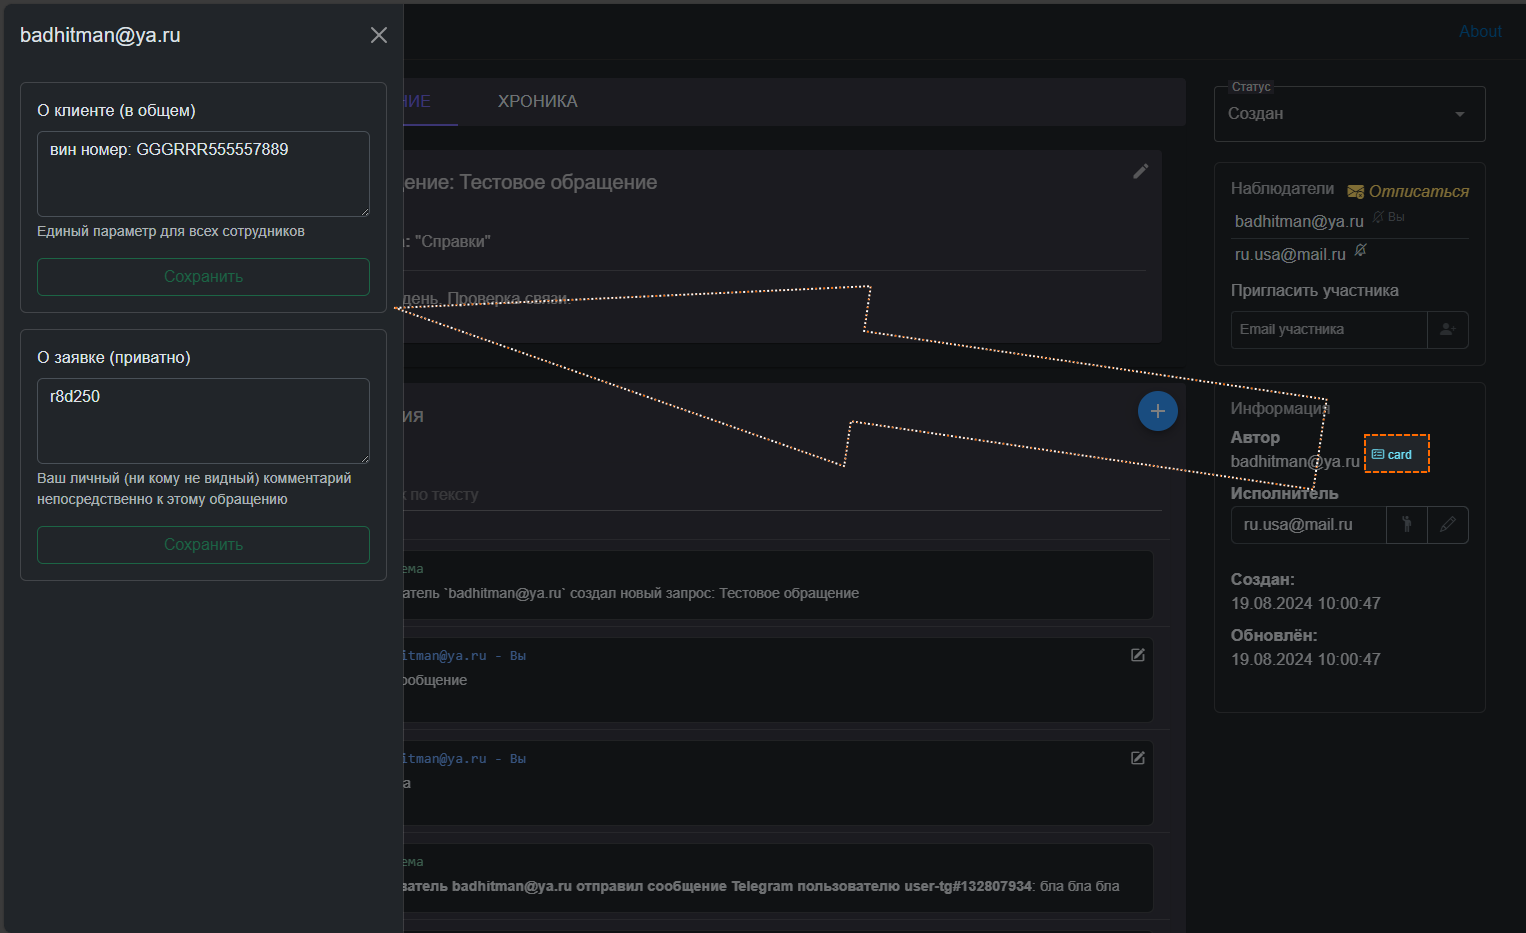
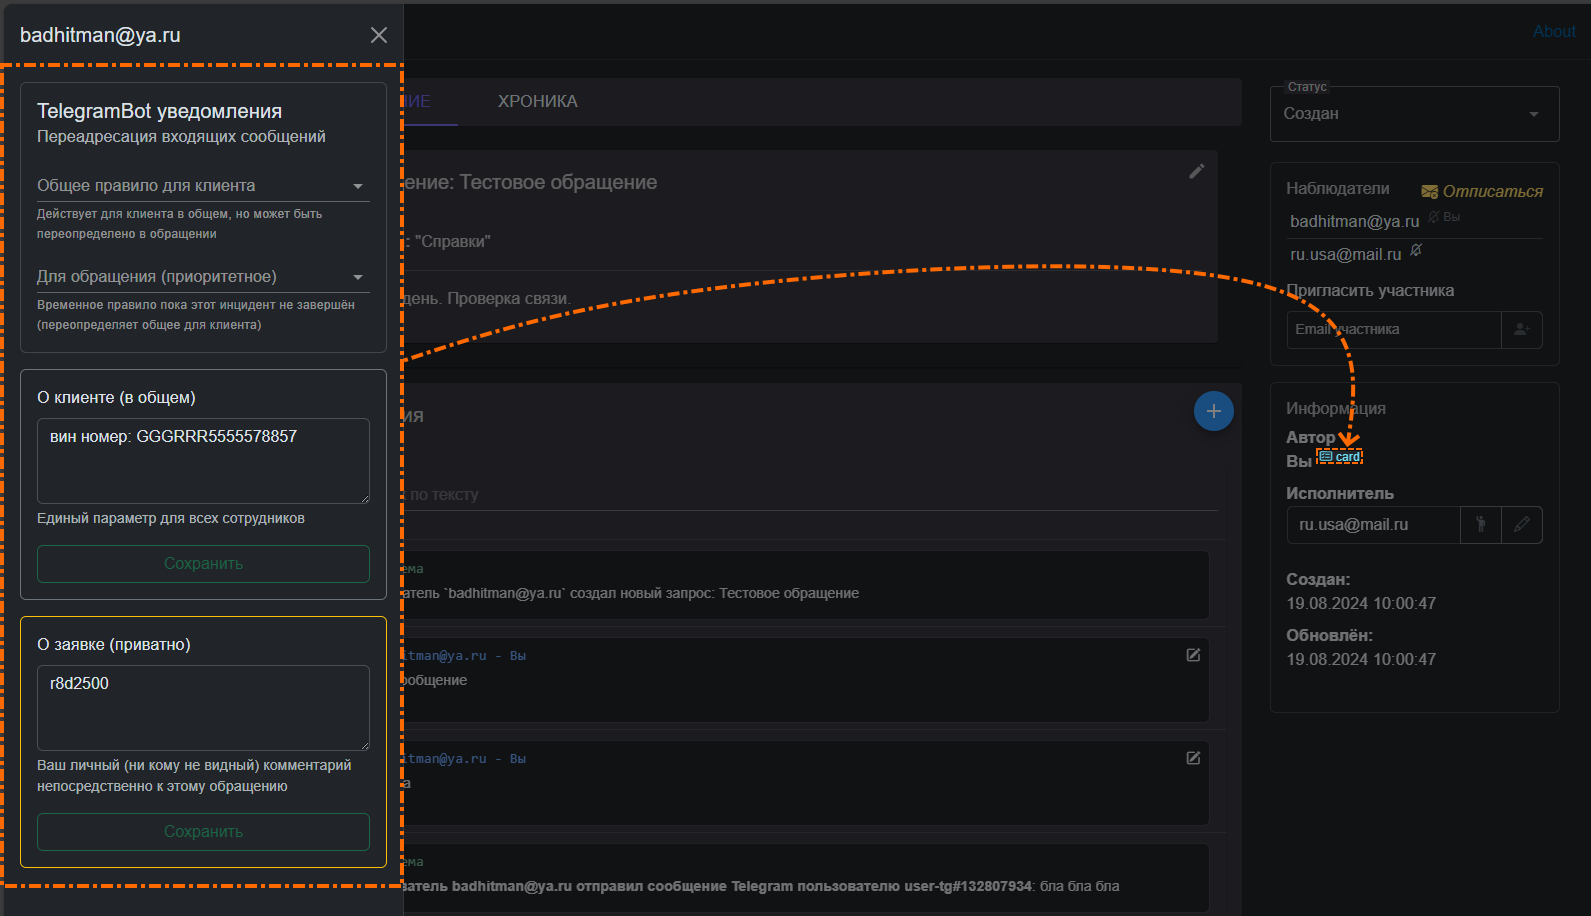
~

diff --git a/RemoteCallLib/SerializeStorage/SerializeStorageService.cs b/RemoteCallLib/SerializeStorage/SerializeStorageService.cs
@@ -84,7 +84,7 @@ public class SerializeStorageService(IDbContextFactory<CloudParametersContext> c
             {
                 await context.SaveChangesAsync();
                 success = true;
-                res.AddSuccess($"Данные успешно сохранены{(i > 0 ? $" (на попытке [{i}])" : "")}: {_set.Name}");
+                res.AddSuccess($"Данные успешно сохранены{(i > 0 ? $" (на попытке [{i}])" : "")}: {_set.Name} > {_set.PrefixPropertyName}");
                 res.Response = _set.Id;
             }
             catch (Exception ex)

diff --git a/BlazorServerLib/Components/Telegram/MessagesTelegramComponent.razor.cs b/BlazorServerLib/Components/Telegram/MessagesTelegramComponent.razor.cs
@@ -39,7 +39,6 @@ public partial class MessagesTelegramComponent : BlazorBusyComponentBaseModel
         }
     }
 
-
     /// <summary>
     /// Table
     /// </summary>

diff --git a/HelpdeskService/README.md b/HelpdeskService/README.md
@@ -14,14 +14,19 @@
 ## Диалог внутри обращения
 ![issue card body edit](img/issue-card-edit-body.png)
 
-В любом обращении вам доступна карточка клиента текущего автора обращения:
+В любом обращении сотрудникам доступна карточка клиента текущего автора обращения:
 ![issues notes](img/issues-notes.png)
+В карточке клиента доступны настройки пересылки ботом входящие сообщения от клиента и записки.
 
+#### TelegramBot уведомления (пересылка сообщений клиентов)
+Можно установить параметр для пользователя в общем, а можно его определить/переопределить "для обращения". Второй параметр (для обращения) переопределяет значение клиента. Другими словами: при входящем сообщении от клиента сначала система проверит наличие открытых обращений и наличия в них установок персональной переадресации. Если такие будут обнаружены, то уведомления пойдут в эти персонально назначенные чаты. Если у клиента не окажется ни одного действующего обращения, то система проверит наличие общей подписки для клиента что бы попытаться переслать туда сообщение клиента. Таким образом общий для клиента можно указать не персональный чат сотрудника, а групповой чат, где любой из участников будет видеть входящие обращения от бота и будет иметь возможность оперативно взять на себя любое сообщение с автоматическим созданием обращения и назначения отвечающего исполнителем + установка переадресации входящих сообщений в этом обращении. Таким образом дальнейшие сообщения клиента будут приходить уже персонально сотруднику, а не в групповой чат (пока обращение не будет выполнено). Если приоритетных настроек переадресации для обращений больше одного, тогда сообщения снова начнут приходить чат, указанный как общий для клиента.
+
+#### Записки
 Доступны два варианта записок:
 - о клиенте, который привязан к автору обращения один общий для всех сотрудников.
 - приватный, который ваш личный и привязан непосредственно к обращению. его видите только вы и только когда откроете соответствующую заявку/обращение.
 
-В связи с тем что хранится это в службе общих/разделяемых параметров - данная подсистема ведёт историю значений этих значений (ротация настраивается уже в самом сервисе хранения данных)
+В связи с тем что хранится это в службе общих/разделяемых параметров - данная подсистема ведёт историю этих значений (ротация настраивается уже в самом сервисе хранения данных)
 
 ### Сообщения
 ![messages - issue card](img/issue-card-messages.png)
